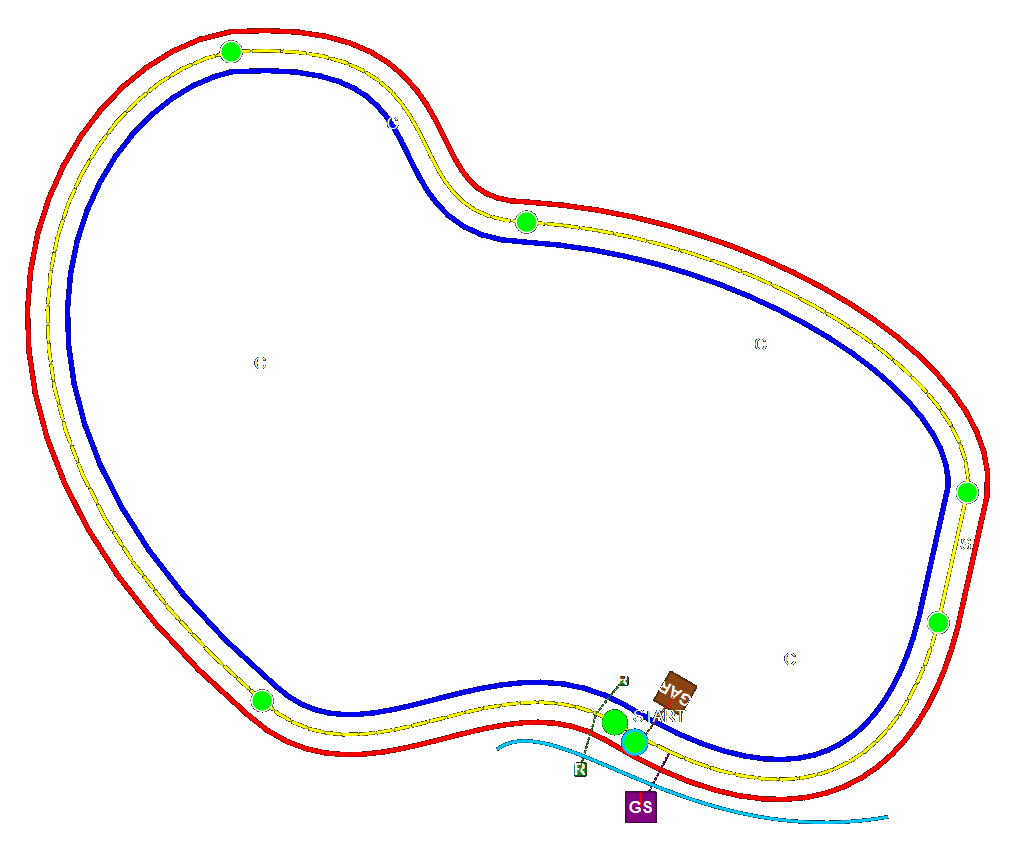
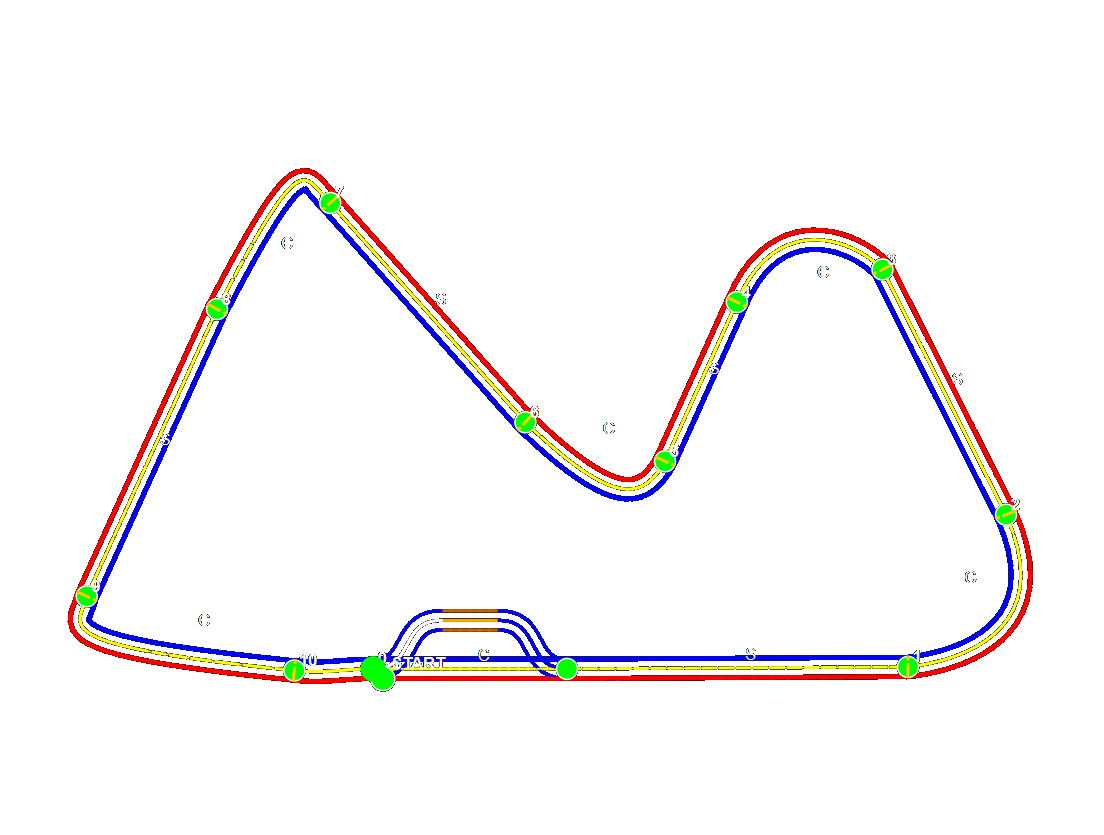
images map plage

Changed region(s): [[0.0, 0.0311, 0.9812, 0.9964]]

diff --git a/PROJETVOLANGTBL/PROJETVOLANGTBL/track3DViewer.cpp b/PROJETVOLANGTBL/PROJETVOLANGTBL/track3DViewer.cpp
@@ -873,7 +873,7 @@ void Track3DViewer::buildTrackMesh(Track* track)
 
 void Track3DViewer::buildGround(Track* track)
 {
-    if (!track->getCurrentChoixMapData().groundData.visible) return;
+    //if (!track->getCurrentChoixMapData().groundData.visible) return;
 	 //Remove old ground entity if it exists
     if (m_groundEntity) {
         m_groundEntity->setParent(static_cast<Qt3DCore::QEntity*>(nullptr));
